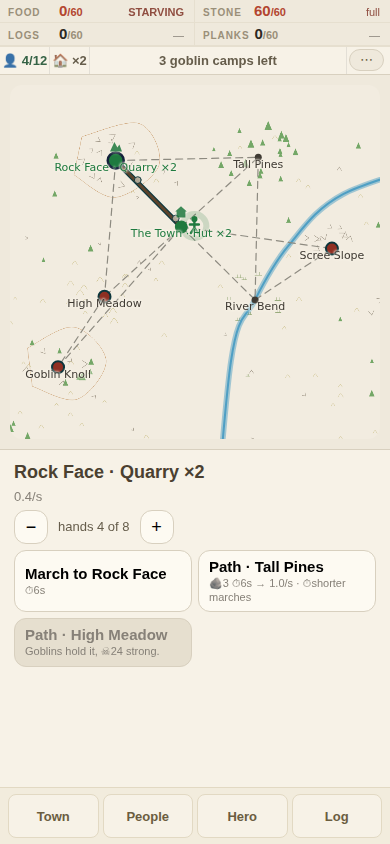
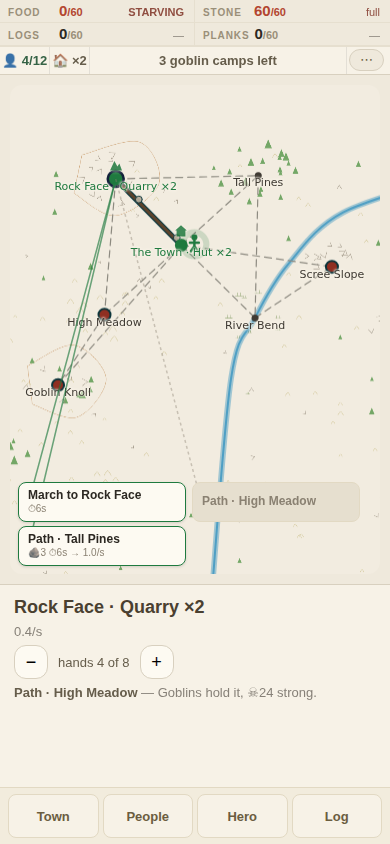
THE DEEDS MOVE ONTO THE GRAPH
The owner: "i think we're losing identity again."

They were right, and docs/BRIEF.md names it. The north star — "the
graph is the game, not a map beside the game" — outranks every other
line in the repo, and item 5 is the one thing the brief calls
non-negotiable: everything is a graph, including the UI itself. What
had grown instead was a conventional phone app: a board at the top,
a list of cards at the bottom, four tabs under that. Yesterday's look
pass made all of it more coherent, which is the opposite direction —
subtraction and polish cannot create identity.

So: WHAT YOU CAN DO AT A PLACE NOW HANGS OFF THAT PLACE, on a drawn
edge, because the edge is a true statement — this deed belongs to
this node — where a list at the bottom of the screen was a fact about
panels and not about the game.

- The picked node's deeds are chips joined to it by stalks. Same
  `deeds` the panel used: this changes WHERE the game is touched, not
  what it offers, and a second derivation is how two surfaces come to
  disagree about what you can do.
- The panel no longer lists them. It keeps what a place IS — its
  name, its works, its hands — and says why a blocked deed is
  blocked. The graph keeps what you can DO there.
- The board went 42dvh to 58dvh. The interface is the board now.

THREE LAYOUTS, AND THE FIRST TWO ARE WHY THE THIRD LOOKS LIKE THIS
A fan around the parent does not fit a phone. Seven deeds hang off
the camp; a fan of them from a node in the middle of a 390px board
[…]

diff --git a/src/ui/Board.svelte b/src/ui/Board.svelte
@@ -40,6 +40,25 @@
      *  the map (owner's visual pass). A key into ICONS; absent = bare dot. */
     icon?: string;
   }
+  /** ★★★ A DEED, HANGING OFF THE PLACE IT ACTS ON — 2026-08-16.
+   *
+   *  `docs/BRIEF.md` item 5, the one the brief itself calls the single
+   *  non-negotiable: *"everything is a graph… including the UI itself where
+   *  that is possible."* What you can DO at a place now hangs off that place
+   *  on an edge, because the edge is a TRUE STATEMENT — this deed belongs to
+   *  this node — where a list at the bottom of the screen was a fact about
+   *  panels and not about the game.
+   *
+   *  ⚠ `off` DEEDS STAY ON THE GRAPH. A deed you cannot take yet is drawn
+   *  dimmed and unpressable rather than hidden: a door you can see and cannot
+   *  open is item 4 of the same brief, and a menu that hides what you cannot
+   *  afford teaches a player nothing about what to aim at. */
+  export interface Spoke {
+    /** ⚠ THE PARENT IS THE DOT'S OWN ID STRING (`site:3`), not a site number.
+     *  `posOf` is keyed by `Dot.id`, and handing it a bare number silently
+     *  found nothing — the deeds simply did not draw, with no error. */
+    id: string; parent: string; label: string; note: string; off: boolean;
+  }
   export interface Line { a: string; b: string; rel: string; fill: number;
     /** How much of its limit this road is carrying, 0 to 1. See `flow.ts`. */
     load: number;
@@ -95,9 +114,12 @@
   };
 
   let { dots, lines, box, label, onTap, onGround, decor = [], mark = null, drag = true, inset = 0,
-    feed = null, pulse = 0, pulseMark = '', fog = null }: {
+    feed = null, pulse = 0, pulseMark = '', fog = null, spokes = [], onSpoke }: {
     dots: Dot[]; lines: Line[]; box: Box; label: string;
     onTap: (id: string) => void;
+    /** What can be done at the picked node, drawn hanging off it. */
+    spokes?: Spoke[];
+    onSpoke?: (id: string) => void;
     onGround?: () => void;
     /** ★ THE FOG OF WAR, or null for no fog. Uncharted parchment drawn OVER
      *  the terrain with soft holes cut around `spots` (stops stood at) and
@@ -240,6 +262,57 @@
   $effect(() => { void k; void tx; void ty; plusses = []; });
 
   const shape = $derived(dots.map((d) => d.id).join(','));
+  /** ★★★ WHERE A DEED SITS — 2026-08-16. Screen space, not world: a spoke is
+   *  a piece of UI hanging off a node, so it must keep the same size and the
+   *  same gap from its parent at every zoom. World-space spokes flew apart
+   *  when you pinched in and stacked on top of each other when you pinched
+   *  out, which is the one thing a menu may never do.
+   *
+   *  ⚠ THEY FAN DOWNWARD, and that is not a taste call. The parent is always
+   *  the node you just tapped, the tap came from a thumb, and the thumb is at
+   *  the BOTTOM of the phone — so a fan that opens upward puts every deed
+   *  under the hand that is reaching for it. Down and slightly out, in the
+   *  order given, with the run capped so a long list stays on the board.
+   *  ⚠ AND IT FLIPS when the parent is low: below `cssH - 150` there is no
+   *  room underneath, so the fan opens upward instead of running off the
+   *  bottom edge. Measured against the real element, never assumed. */
+  /** ★★★ WHERE A DEED SITS — 2026-08-16, and this is the third layout.
+   *
+   *  ⚠ A FAN AROUND THE PARENT DOES NOT FIT A PHONE, and both earlier cuts
+   *  proved it the same way: seven deeds hang off the camp, each chip is a
+   *  word plus a price, and a fan of them from a node in the middle of a
+   *  390px board lays parchment over the entire graph — including OTHER
+   *  NODES, which then cannot be tapped at all. The browser probe caught it
+   *  as a node click that simply failed.
+   *
+   *  So the deeds take a BAND along the bottom of the board and the graph is
+   *  framed into what is left (`inset`, which exists for exactly this and
+   *  already handles the panel). The stalk still runs from the node to each
+   *  deed, because that edge is the true statement and it is the whole point:
+   *  you can see, at a glance, that these actions belong to THAT place.
+   *  Two columns, because a chip is ~132px and a phone is 390. */
+  const SPOKE_COLS = 2;
+  const SPOKE_W = 168;
+  /** ⚠ 44px, WHICH IS THE THUMB FLOOR AND NOT NEGOTIABLE. The first band
+   *  packed the chips at 34px to fit more of them, which is the same trade
+   *  this repo has already refused once for the deed rows: a compact list you
+   *  cannot reliably hit is not compact, it is broken. Seven deeds at two
+   *  columns is four rows — 176px of a 490px board, and the graph keeps the
+   *  rest. */
+  const SPOKE_H = 44;
+  const spokeBand = $derived(
+    spokes.length === 0 ? 0
+      : Math.ceil(spokes.length / SPOKE_COLS) * SPOKE_H + 10);
+  const spokeAt = $derived((i: number) => {
+    const rows = Math.ceil(spokes.length / SPOKE_COLS);
+    const col = Math.floor(i / rows);
+    const row = i % rows;
+    return {
+      x: 8 + col * (SPOKE_W + 6),
+      y: cssH - spokeBand + 6 + row * SPOKE_H,
+    };
+  });
+
   const posOf = $derived(new Map(dots.map((d) =>
     [d.id, moved.get(d.id) ?? { x: d.wx, y: d.wy }])));
 
@@ -281,7 +354,7 @@
     if (!cssW || !cssH || !box.w || !box.h) return;
     // Never frame into nothing: a panel taller than the board would otherwise
     // divide by a negative and put the map somewhere off-screen.
-    const usable = Math.max(120, cssH - inset);
+    const usable = Math.max(120, cssH - inset - spokeBand);
     // Capped, or a two-dot tab fills the page with two enormous dots and a
     // label in 40px type — which is exactly what the previous renderer did
     // before it grew a minimum box to work around it.
@@ -311,7 +384,7 @@
    *  different graph) reclaims the camera. */
   let touched = false;
   $effect(() => {
-    const s = shape, w = cssW, h = cssH, ins = inset;
+    const s = shape, w = cssW, h = cssH, ins = inset + spokeBand;
     if (!w || !h) return;
     if (s === fitted && touched) { fitW = w; fitH = h; fitIn = ins; return; }
     if (s === fitted && w === fitW && h === fitH && ins === fitIn) return;
@@ -918,6 +991,47 @@
       {/if}
     </button>
   {/each}
+  <!-- ★★★ THE DEEDS, HANGING OFF THE NODE THEY ACT ON — 2026-08-16, brief
+       item 5. The STALK is an SVG line (a graph edge is a line, and this one
+       has to sit above the canvas so it is never buried by terrain); the chip
+       is DOM, because it is a word and a tap target. -->
+  {#if spokes.length > 0}
+    {@const par = posOf.get(spokes[0]?.parent ?? '')}
+    {#if par}
+      {@const px = sx(par.x)}
+      {@const py = sy(par.y)}
+      <svg class="stalks" aria-hidden="true">
+        {#each spokes as sp, i (sp.id)}
+          {@const at = spokeAt(i)}
+          <line x1={px} y1={py} x2={at.x + 10} y2={at.y + SPOKE_H / 2}
+            class:off={sp.off} />
+        {/each}
+      </svg>
+      {#each spokes as sp, i (sp.id)}
+        {@const at = spokeAt(i)}
+        <button class="spoke" class:off={sp.off} disabled={sp.off}
+          style="left:{at.x}px; top:{at.y}px; width:{SPOKE_W}px"
+          data-spoke={sp.id}
+          onpointerdown={(e) => e.stopPropagation()}
+          onpointerup={(e) => e.stopPropagation()}
+          onclick={(e) => { e.stopPropagation(); onSpoke?.(sp.id); }}>
+          <span class="what">{sp.label}</span>
+          <!-- ⚠ ONLY A DEED YOU CAN TAKE CARRIES ITS PRICE. The refusals are
+               sentences — "No road reaches here. Lay one from a place you
+               hold." — and seven of those hanging off the camp laid a wall of
+               parchment across the whole board, hiding the graph they are
+               supposed to be part of and burying other nodes under it. A
+               blocked deed shows its NAME (so you know the door is there) and
+               the panel says why. -->
+          <!-- ⚠ THE FIRST CLAUSE ONLY. A note is "🪨3 ⏱6s → 1.0/s · ⏱shorter
+               marches" — the price, then what it buys you. A 168px chip shows
+               the price and clips the rest mid-word, which reads as a bug; the
+               panel has room for the whole sentence. -->
+          {#if sp.note && !sp.off}<em>{sp.note.split(' · ')[0]}</em>{/if}
+        </button>
+      {/each}
+    {/if}
+  {/if}
   {#each plusses as p (p.id)}
     <span class="plus" style="left:{p.x}px; top:{p.y}px"
       onanimationend={() => (plusses = plusses.filter((q) => q.id !== p.id))}
@@ -926,6 +1040,61 @@
 </div>
 
 <style>
+  /* ★★★ THE DEED SPOKES — 2026-08-16. A chip on the board, joined to its
+     node by a drawn edge. It has to read as PART OF THE GRAPH rather than as
+     a popover sitting on top of one, so: the same card face and the same
+     hairline the rest of the chrome uses, and the stalk in the same ink as a
+     road you can take. */
+  .stalks { position: absolute; inset: 0; width: 100%; height: 100%;
+    pointer-events: none; overflow: visible; }
+  .stalks line { stroke: var(--moss); stroke-width: 1.5; opacity: 0.65; }
+  .stalks line.off { stroke: var(--faint); opacity: 0.4; stroke-dasharray: 3 3; }
+  /* ⚠ CAPPED AND WRAPPING. The first cut let a chip size to its own text and
+     a deed whose note is a sentence — "No road reaches here. Lay one from a
+     place you hold." — came out 250px wide and laid a wall of parchment over
+     the board. The graph has to stay visible; that is the entire reason the
+     deeds moved onto it. */
+  /* ⚠ EVERY CHIP IS THE SAME HEIGHT, AND THAT IS A TAP-TARGET RULE, not a
+     tidiness one. The first cut let each chip wrap to its own text, so a
+     two-line chip overlapped the one below it — and an overlapped chip is a
+     chip whose top half belongs to its neighbour. The browser probe found it
+     as "the spade went in silently": the click landed, on the wrong element.
+     Both lines clip to one line each; the graph is where you read the shape
+     of things, and the panel is where a sentence goes. */
+  /* ⚠ THE CHIP MUST CLAIM ITS OWN POINTER. `.board` takes `pointerdown` for
+     panning and resolves a NODE tap itself on `pointerup` — which is why
+     `.node` carries no `onclick` at all. A button dropped into that container
+     therefore never sees a click: the board captures the pointer first and
+     the press is read as a drag on the map. The chips stop the pointer at the
+     source, and only then does `onclick` reach them. Cost a debugging session
+     that went looking in the handler while the event never arrived. */
+  .spoke { position: absolute;
+    display: flex; flex-direction: column; align-items: flex-start; gap: 0;
+    font: inherit; text-align: left;
+    box-sizing: border-box; height: 40px;
+    background: var(--card); border: 1px solid var(--moss);
+    border-radius: var(--r1); padding: 5px 9px; min-height: 30px;
+    justify-content: center; cursor: pointer; z-index: 3;
+    box-shadow: 0 1px 3px var(--shadow); }
+  .spoke .what, .spoke em { max-width: 100%; white-space: nowrap;
+    overflow: hidden; text-overflow: ellipsis; display: block; }
+  .spoke .what { font-size: var(--t6); font-weight: 700; color: var(--ink);
+    line-height: 1.15; }
+  .spoke em { font-style: normal; font-size: var(--t8); color: var(--faint);
+    line-height: 1.2; }
+  /* ⚠ SHOWN, NOT HIDDEN. A deed you cannot take yet is a door you can see —
+     brief item 4 — so it dims and stops being pressable rather than
+     vanishing and teaching nothing. */
+  /* ⚠ AND IT DOES NOT STEAL TAPS. A dimmed chip is INFORMATION — a door you
+     can see and cannot open — so it must not sit between your thumb and the
+     node behind it. `disabled` alone still occludes; `pointer-events: none`
+     is what lets the tap through to the map. The probe found this as "no path
+     deed at the pines": the pines node was under a chip belonging to the
+     place picked before it. */
+  .spoke.off { border-color: var(--rule); background: var(--sunk);
+    box-shadow: none; pointer-events: none; }
+  .spoke.off .what { color: var(--faint); font-weight: 600; }
+
   /* Sized from its own width, never from the viewport: `100dvh` against a
      `window.innerHeight` measurement is the iOS URL-bar bug that broke the
      first two renderers. */
@@ -943,6 +1112,12 @@
 
   /* A 44px target centred on the dot — the drawn dot is small and the thing
      you have to hit is not. */
+  /* ⚠ NO `z-index` HERE, AND IT WAS TRIED: raising nodes above the deed
+     chips so a chip could never cover a node made things worse, not better.
+     A node's tap target is a 44px square centred on the dot, and the first
+     chip hangs 30px below its own parent — so lifting nodes made the parent
+     node eat the first deed on every place. The chips win where they overlap;
+     an unavailable one drops out of the way instead (`pointer-events`). */
   .node { position: absolute; width: 44px; height: 44px; margin: -22px 0 0 -22px;
     padding: 0; border: 0; background: none; cursor: pointer; outline: none;
     display: flex; justify-content: center; align-items: flex-start; }

diff --git a/src/ui/Camp.svelte b/src/ui/Camp.svelte
@@ -2,7 +2,7 @@
   // THE CITY BUILDER'S ONE SCREEN — docs/CITY.md made flesh. Header of
   // numbers, the board, a dock of deeds. NO PROSE: nouns and numbers.
   import { onMount } from 'svelte';
-  import Board, { type Dot, type Line } from './Board.svelte';
+  import Board, { type Dot, type Line, type Spoke } from './Board.svelte';
   import { INK, PAPER, TOL, type InkName } from '../game/ink';
   import type { Box } from '../game/layout';
   import { apply, catchUp, initial, flow, shown, popCap, pathKey, costOf, pathCostOf,
@@ -535,6 +535,7 @@
 
   interface Deed { label: string; note: string; why: string | null; go: () => void }
 
+
   /** ★★ THE HERO'S OWN DEEDS (N1) — the two that are about the person rather
    *  than about a place, so they belong on the Hero tab and not in the middle
    *  of the camp's building list. Marching stays with the PLACE you are
@@ -700,6 +701,27 @@
     }
     return out;
   })());
+
+  /** ★★★ THE PICKED PLACE'S DEEDS, ON THE GRAPH — 2026-08-16, brief item 5.
+   *
+   *  ⚠ THE SAME `deeds` THE PANEL USED, deliberately: this is a change of
+   *  WHERE the game is touched, not of what it offers, and duplicating the
+   *  list into a second derivation is how two surfaces come to disagree
+   *  about what you can do. One list, drawn somewhere truer.
+   *
+   *  ⚠ AND ONLY WHEN NO SHEET IS OPEN. The sheets rise OVER the board; deeds
+   *  blooming under a sheet you are reading would be furniture arguing with
+   *  furniture. */
+  const spokes = $derived<Spoke[]>(
+    (!game.fight && sheet === null && picked !== null && SITE.has(picked))
+      ? deeds.map((d, i) => ({
+          id: `${picked}:${i}`, parent: siteId(picked!),
+          label: d.label, note: d.note, off: d.why !== null }))
+      : []);
+  const fireSpoke = (id: string): void => {
+    const d = deeds[Number(id.split(':')[1])];
+    if (d && d.why === null) d.go();
+  };
 
   /** ★★★ THE TOWN'S OWN DEEDS — 2026-08-11. Everything you build for the
    *  whole camp rather than for one place on the map: the storehouse, the
@@ -1231,7 +1253,7 @@
            owner's own suggestion. Leaving both would be the clutter F10 is
            about. -->
       <Board {dots} {lines} {box} label="city" onTap={doTap} drag={false}
-        decor={scene} mark={heroMark} />
+        decor={scene} mark={heroMark} {spokes} onSpoke={fireSpoke} />
     </div>
     <section class="panel">
       {#if awayLine}
@@ -1514,6 +1536,25 @@
             {/if}
           </div>
         {/if}
+        <!-- ★★★ AND THE LIST IS GONE WHEN THE GRAPH HAS THEM — 2026-08-16.
+             The deeds hang off their own node now (brief item 5); printing
+             them here as well would be the same offer in two places, which is
+             how the hero's Feed deed once sat on two tabs at once. The panel
+             keeps what a place IS — its name, its works, its hands — and the
+             graph keeps what you can DO there. -->
+        <!-- ★★★ AND THE PANEL SAYS WHY — 2026-08-16. A blocked deed on the
+             graph shows its NAME only: the refusals are sentences, and seven
+             sentences hanging off the camp buried the board. But a door you
+             cannot open still has to say what is holding it, or the dimming
+             is just a shrug. The reasons land here, where there is room for a
+             sentence — which is also what this panel is FOR now that the
+             deeds themselves have gone onto the graph. -->
+        {#if spokes.length > 0}
+          {#each deeds.filter((d) => d.why !== null) as d (d.label)}
+            <p class="note"><b>{d.label}</b> — {d.why}</p>
+          {/each}
+        {/if}
+        {#if spokes.length === 0}
         <div class="deeds">
         {#each deeds as d (d.label)}
           <!-- ★ ONE LINE PER DEED, 2026-08-09. The owner, on the phone: *"the
@@ -1530,6 +1571,7 @@
           </button>
         {/each}
         </div>
+        {/if}
       {:else if !game.fight}
         <!-- ⚠ AND NOT DURING A FIGHT, 2026-08-15. Every branch above this one
              is guarded by `!game.fight`, so a battle fell through the whole
@@ -1765,7 +1807,16 @@
      so the map takes a fixed share and the panel takes what is left. The
      board never hears about a dock tap, and the emptiness lands in a panel
      that already looks like a panel and scrolls when there is more. */
-  .map { flex: 0 0 auto; height: 42dvh; min-height: 0; position: relative;
+  /* ★★★ 42dvh → 58dvh, 2026-08-16. The deeds moved ONTO the graph (brief
+     item 5), so the panel that used to list them holds a name and a couple of
+     status lines — it was 40dvh of empty parchment under a three-line
+     inspector, while five deed chips fought each other over a 355px board.
+     The board is the interface now and it takes the screen; the panel keeps
+     what a place IS and the graph keeps what you can DO there.
+     ⚠ STILL A FIXED HEIGHT, WHICH IS THE WHOLE POINT OF THIS RULE — the
+     number changed, the law did not. The map must not resize when a sheet
+     opens (*"it makes the map jam every time"*), so the panel still absorbs. */
+  .map { flex: 0 0 auto; height: 58dvh; min-height: 0; position: relative;
     margin: 10px; }
   /* ★★★ A FIXED HEIGHT, AND THAT IS THE WHOLE FIX — 2026-08-15. The owner:
      *"switching between town, hero and along repositions the height of the
@@ -1783,6 +1834,7 @@
     padding: 8px 14px; border-top: 1px solid var(--sunk); }
   .panel h2 { margin: 4px 0 6px; font-size: var(--t3); }
   .note { color: var(--faint); font-size: var(--t5); margin: 4px 0; }
+  .note b { color: var(--soft); font-weight: 700; }
   /* ★★★ THE MARKS SIT ON THE PAPER — 2026-08-15, the look pass. The board is
      a hiking map in a measured, muted palette and the furniture was studded
      with full-saturation OS emoji: a grey lump for stone, a cardboard
